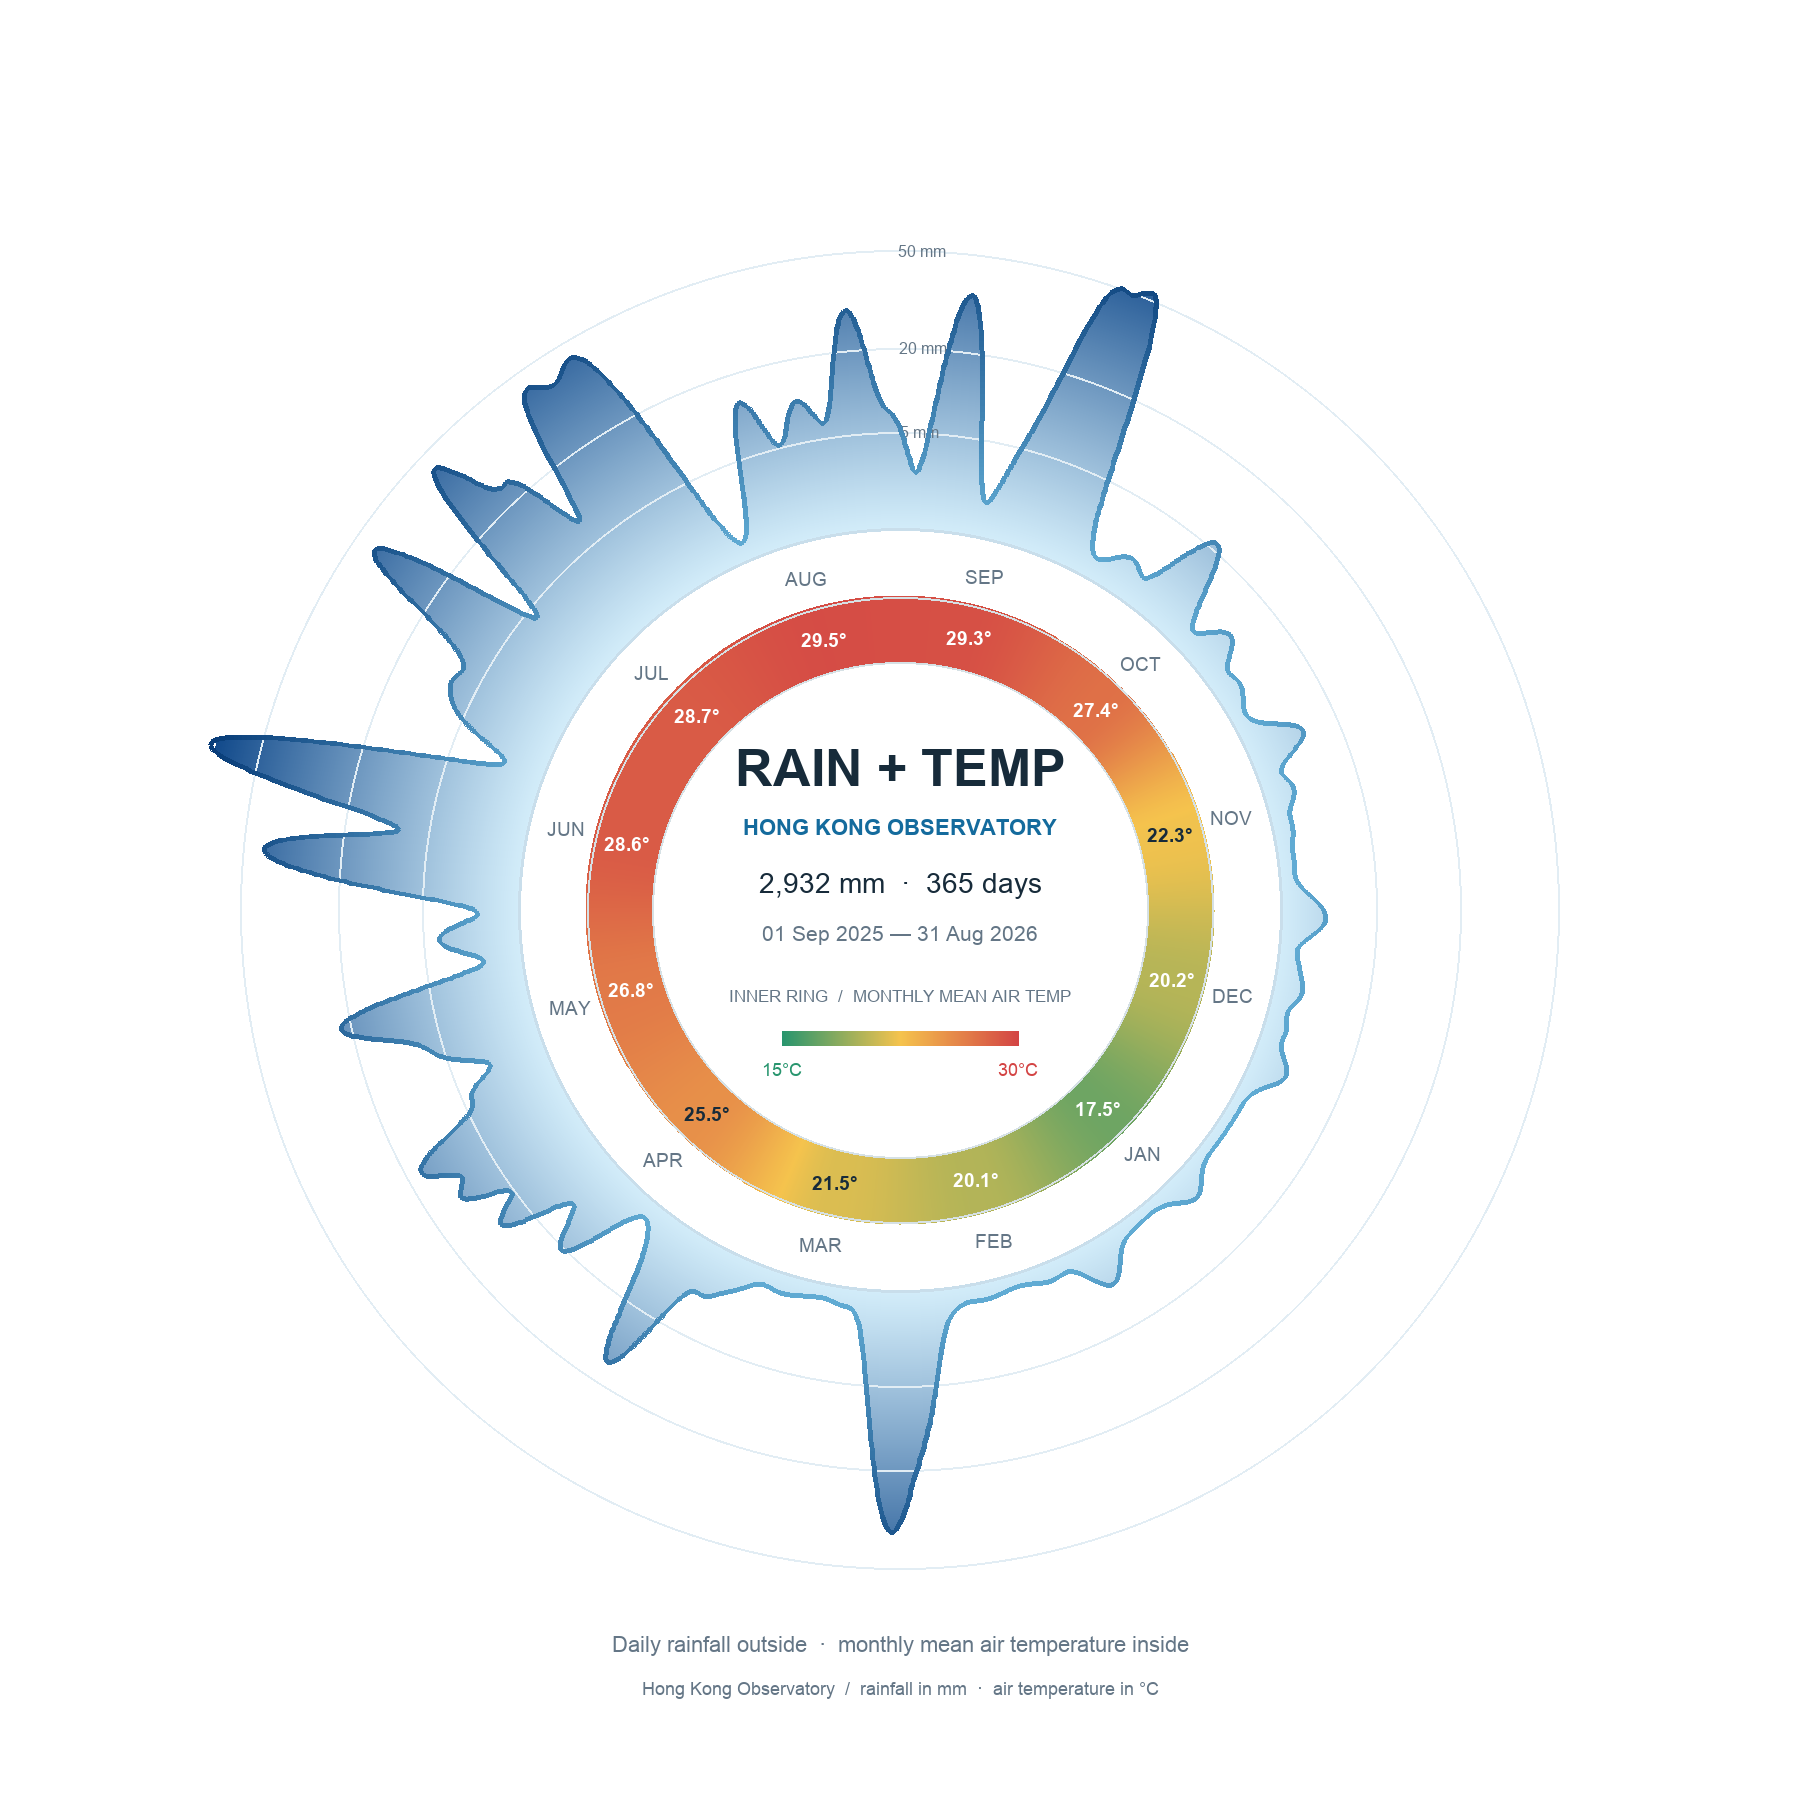
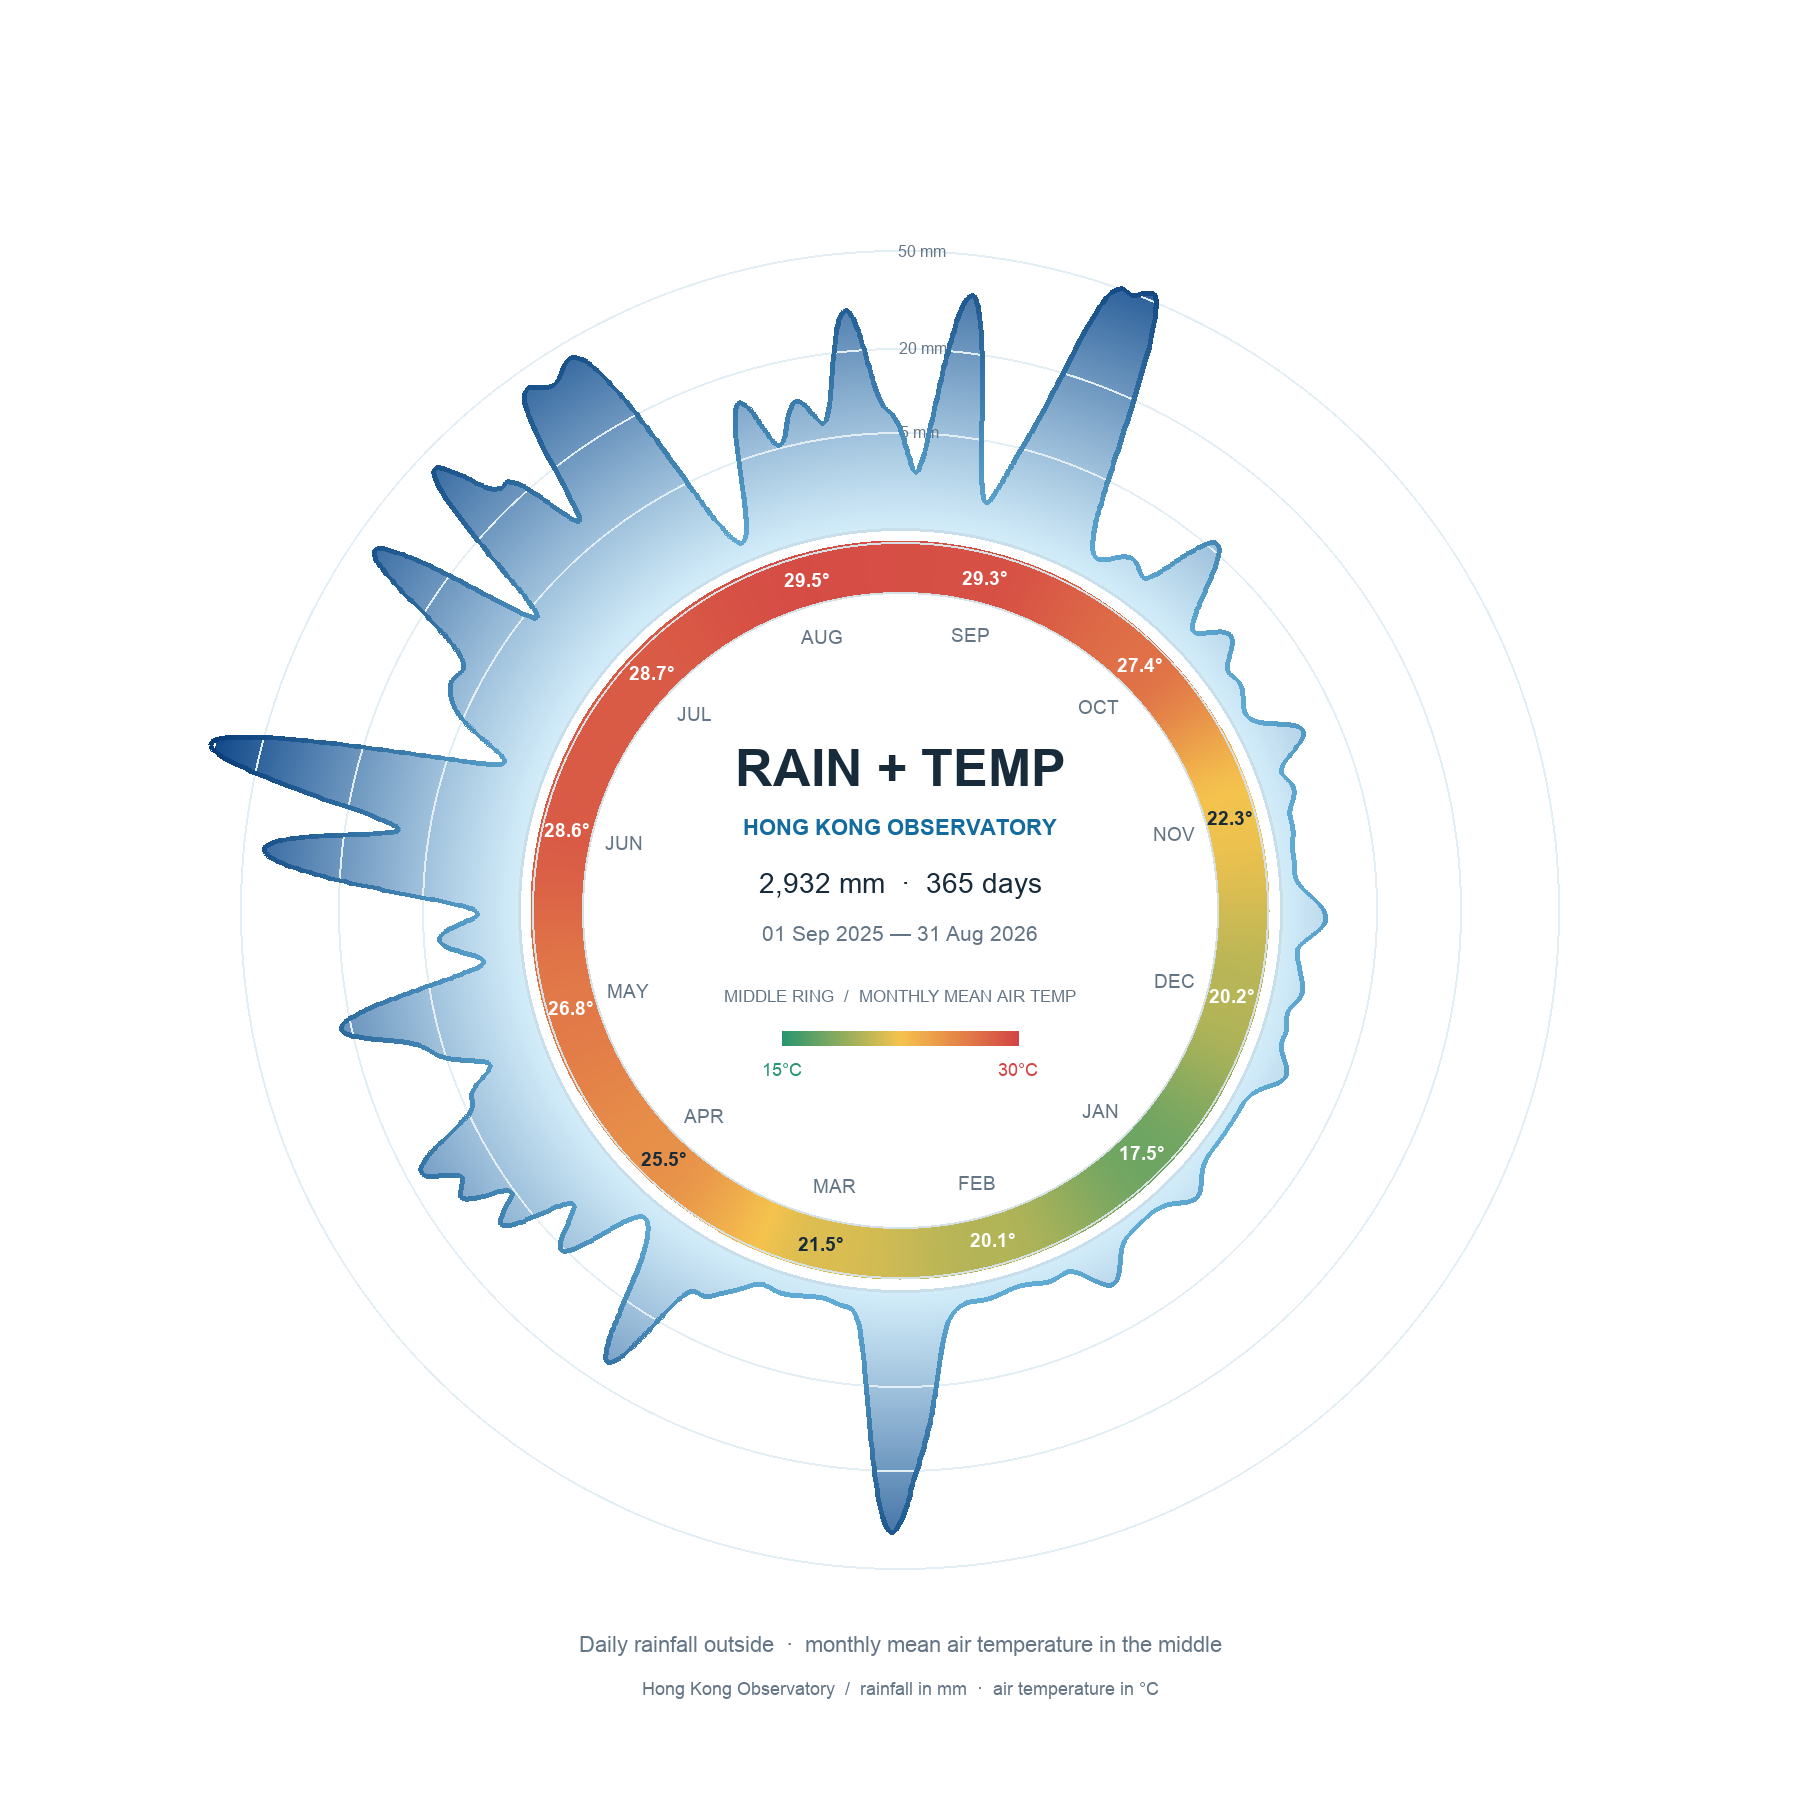
Move month labels inside temperature ring

Changed region(s): [[0.28, 0.28, 0.7156, 0.7156], [0.3422, 0.9022, 0.6844, 0.9333], [0.4044, 0.5289, 0.5911, 0.56]]

diff --git a/rain_temp_plot.py b/rain_temp_plot.py
@@ -2,7 +2,7 @@
 # requires-python = ">=3.10"
 # dependencies = ["pillow"]
 # ///
-"""Add monthly mean air temperature inside the separate rainfall curve artwork."""
+"""Add monthly mean air temperature between month labels and rainfall curve."""
 
 import csv
 import datetime as dt
@@ -16,7 +16,8 @@ from PIL import Image, ImageDraw, ImageFont
 HERE = Path(__file__).parent
 BASE_IMAGE = HERE / "out" / "rainfall_closed_curve.png"
 OUTPUT = HERE / "out" / "rainfall_temperature_ring.png"
-INNER, OUTER = 248, 313
+INNER, OUTER = 318, 368
+MONTH_RADIUS = 284
 CX, CY = 900, 910
 GREEN = (40, 149, 110)
 YELLOW = (245, 195, 77)
@@ -108,6 +109,10 @@ size = canvas.size
 if size != (1800, 1800):
     raise ValueError(f"Unexpected base image size: {size}")
 
+# The base rainfall artwork has month labels here; clear its centre so the
+# months can move inward without altering the blue rainfall shape outside.
+draw.ellipse((CX - 375, CY - 375, CX + 375, CY + 375), fill="white")
+
 for month in months:
     average = sum(month["values"]) / len(month["values"])
     month["average"] = average
@@ -118,8 +123,8 @@ centres = [(month["start"] + month["end"]) / 2 for month in months]
 knots = ([(centres[-1] - len(days), months[-1]["average"])]
          + list(zip(centres, (month["average"] for month in months)))
          + [(centres[0] + len(days), months[0]["average"])])
-for step in range(3600):
-    position = step * len(days) / 3600
+for step in range(4200):
+    position = step * len(days) / 4200
     for left, right in zip(knots, knots[1:]):
         if left[0] <= position <= right[0]:
             fraction = (position - left[0]) / (right[0] - left[0])
@@ -131,11 +136,15 @@ for step in range(3600):
     x1, y1 = CX + math.sin(angle) * (OUTER + 1), CY - math.cos(angle) * (OUTER + 1)
     draw.line((x0, y0, x1, y1), fill=temperature_colour(value), width=2)
 
-# Cut out the centre and write each actual monthly mean on its arc.
+# Cut out the centre, then label the months inside the temperature ring.
 draw.ellipse((CX - INNER, CY - INNER, CX + INNER, CY + INNER), fill="white")
 for month in months:
     middle = (month["start"] + month["end"]) / 2
     angle = 2 * math.pi * middle / len(days)
+    x = CX + math.sin(angle) * MONTH_RADIUS
+    y = CY - math.cos(angle) * MONTH_RADIUS
+    centered(draw, (x, y), dt.date(*month["key"], 1).strftime("%b").upper(),
+             font(19), MUTED)
     radius = (INNER + OUTER) / 2
     x, y = CX + math.sin(angle) * radius, CY - math.cos(angle) * radius
     colour = INK if 21.5 < month["average"] < 26 else (255, 255, 255)
@@ -152,7 +161,7 @@ centered(draw, (900, 886), f"{sum(day['rain'] for day in days):,.0f} mm  ·  365
 centered(draw, (900, 936),
          f"{days[0]['date']:%d %b %Y} — {days[-1]['date']:%d %b %Y}",
          font(21), MUTED)
-centered(draw, (900, 996), "INNER RING  /  MONTHLY MEAN AIR TEMP", font(17), MUTED)
+centered(draw, (900, 996), "MIDDLE RING  /  MONTHLY MEAN AIR TEMP", font(17), MUTED)
 
 for x in range(782, 1019):
     colour = temperature_colour(15 + 15 * (x - 782) / (1018 - 782))
@@ -161,7 +170,7 @@ centered(draw, (782, 1070), "15°C", font(18), GREEN)
 centered(draw, (1018, 1070), "30°C", font(18), RED)
 
 draw.rectangle((380, 1605, 1420, 1720), fill="white")
-centered(draw, (900, 1646), "Daily rainfall outside  ·  monthly mean air temperature inside",
+centered(draw, (900, 1646), "Daily rainfall outside  ·  monthly mean air temperature in the middle",
          font(22), MUTED)
 centered(draw, (900, 1690), "Hong Kong Observatory  /  rainfall in mm  ·  air temperature in °C",
          font(18), MUTED)

diff --git a/PROCESS.md b/PROCESS.md
@@ -6,7 +6,7 @@ I used Codex to inspect the committed Hong Kong Observatory CSV, develop and rev
 
 I then explored turning the bar ring into a line ring. First, I asked Codex to connect the daily bar tips with a smooth line, without changing the bar heights. The overlaid line made the static bar chart too busy, so I removed it from that image and kept the bars as one version. For a separate line-only version, Codex mapped the rainfall values to radial distances and connected the days around the circle. I found the first curve too smooth and asked for more of the daily variation to remain visible, with the end of the year joined to its beginning. Finally, I asked for the space between the inner ring and the closed curve to be filled with a blue gradient that darkens towards higher peaks. The two images show the same year in different ways: bars make individual days clearer, while the continuous shape emphasizes the year's rhythm.
 
-I then asked for a third image that keeps the blue rainfall curve and places a coloured temperature ring inside it, with warmer months in red and cooler months in green. Codex fetched daily mean air temperature from the same Hong Kong Observatory station and averaged it by month over the rainfall chart's exact 365-day period. After seeing the first temperature ring divided into flat-colour monthly sectors, I asked for a continuous gradient around the ring. I kept the actual monthly numbers and a labelled colour key so the interpolated colours could not be mistaken for additional temperature measurements or for rainfall. I reviewed the generated images and gave feedback on their appearance. Codex used `uv` to run the scripts and the assignment's checker to verify the repository structure.
+I then asked for a third image that keeps the blue rainfall curve and adds a coloured temperature ring, with warmer months in red and cooler months in green. Codex fetched daily mean air temperature from the same Hong Kong Observatory station and averaged it by month over the rainfall chart's exact 365-day period. After seeing the first temperature ring divided into flat-colour monthly sectors, I asked for a continuous gradient around the ring. I compared two layouts and chose to put the month names inside the temperature ring, with the temperature ring closer to the outer rainfall shape; reading the layers from the centre outward felt more direct. I kept the actual monthly numbers and a labelled colour key so the interpolated colours could not be mistaken for additional temperature measurements or for rainfall. I reviewed the generated images and gave feedback on their appearance. Codex used `uv` to run the scripts and the assignment's checker to verify the repository structure.
 
 ## Kept
 

diff --git a/README.md b/README.md
@@ -2,7 +2,7 @@
 
 ![A circular chart of daily rainfall at the Hong Kong Observatory](out/rainfall_chart.png)
 
-The main image shows the daily bars. A separate [closed-curve version](out/rainfall_closed_curve.png) shows the same year as a continuous line without bars. A third [rainfall-and-temperature version](out/rainfall_temperature_ring.png) adds a coloured monthly temperature ring inside that curve.
+The main image shows the daily bars. A separate [closed-curve version](out/rainfall_closed_curve.png) shows the same year as a continuous line without bars. A third [rainfall-and-temperature version](out/rainfall_temperature_ring.png) adds a coloured monthly temperature ring between the rainfall curve and the inner month labels.
 
 ## The phenomenon
 
@@ -20,7 +20,7 @@ This image uses the latest 365 calendar days in the committed file: 1 September 
 
 The alternative line-only image lightly smooths daily values and joins the last day to the first to make a closed annual form. Its interior fades from pale to deep blue as radial height increases. It is an artistic interpretation, not an additional measurement; for individual daily amounts, use the bars or source CSV.
 
-In the third image, the outer blue shape is the same rainfall curve and the inner ring shows monthly mean air temperature. Green means cooler and red means warmer on a fixed 15–30 °C colour scale. Each month is labelled with its measured mean; the continuous colour between month midpoints is interpolated only for the visual transition, not measured daily temperature. The temperature colours do not represent rainfall amounts.
+In the third image, the outer blue shape is the same rainfall curve, the middle ring shows monthly mean air temperature, and the month labels sit inside both data rings. Green means cooler and red means warmer on a fixed 15–30 °C colour scale. Each month is labelled with its measured mean; the continuous colour between month midpoints is interpolated only for the visual transition, not measured daily temperature. The temperature colours do not represent rainfall amounts.
 
 ## Interactive version
 
